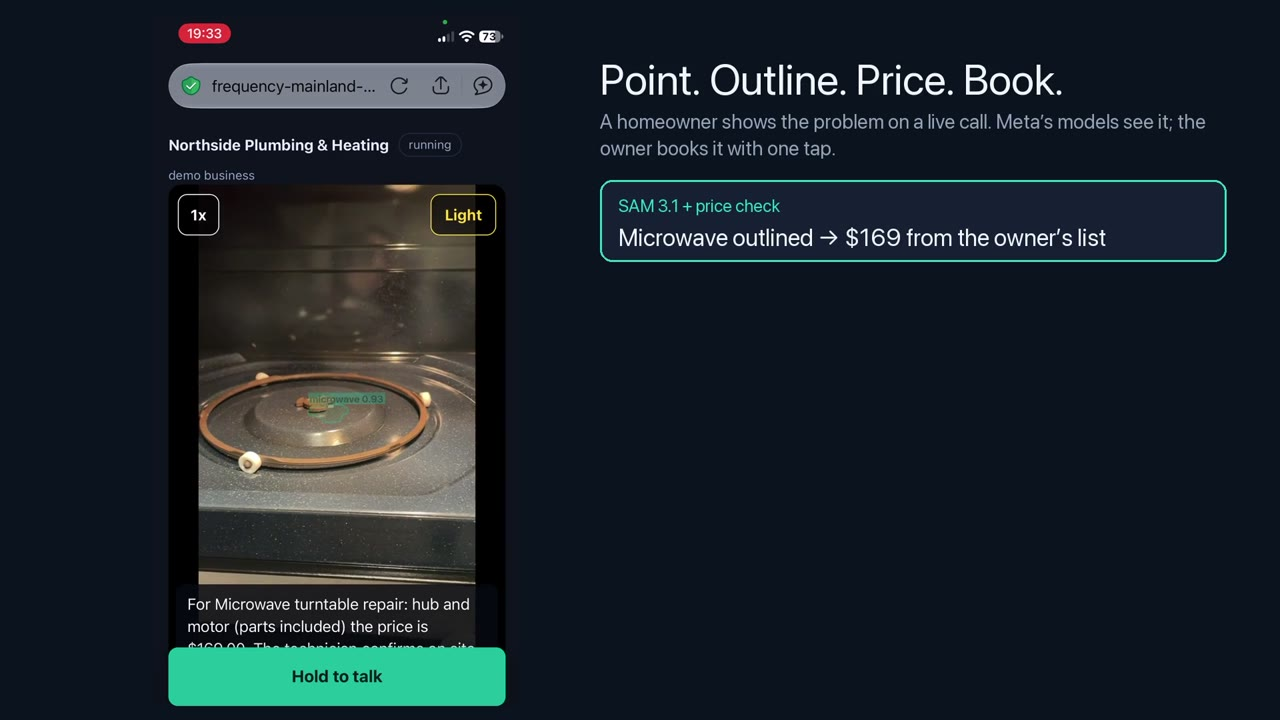
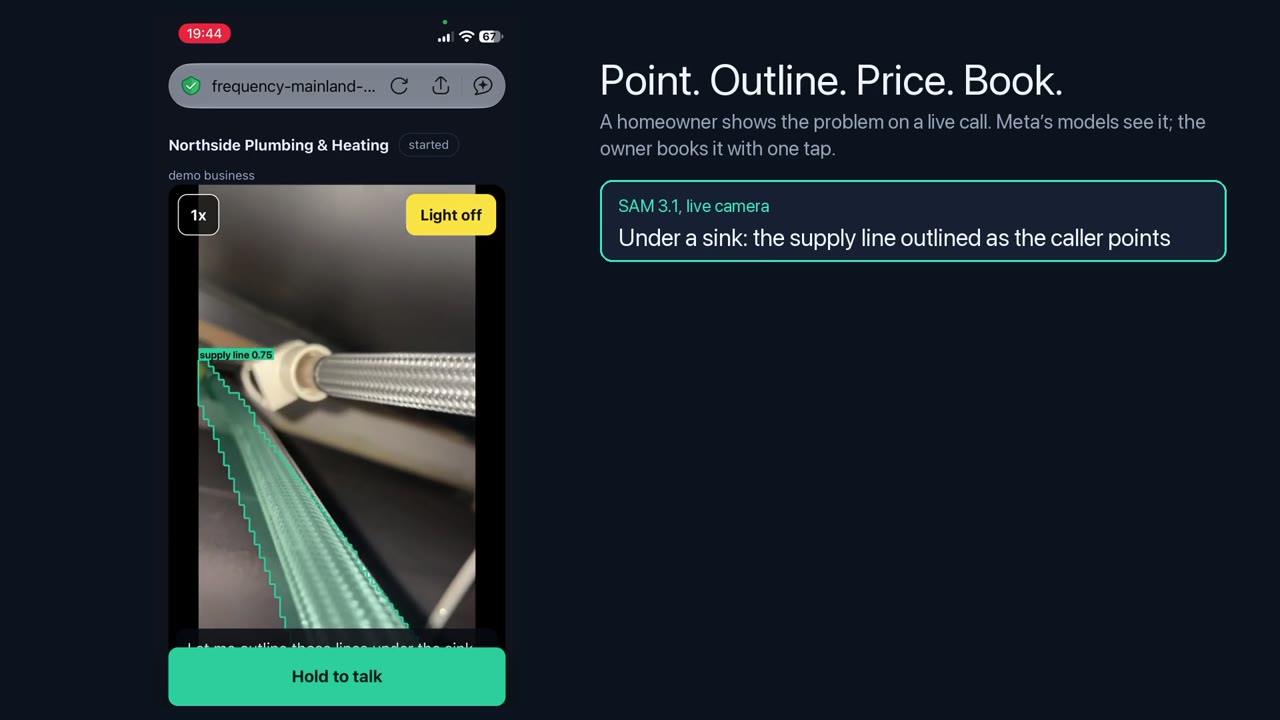
README still from the new opening (bright SAM outline under a sink)

diff --git a/README.md b/README.md
@@ -4,7 +4,7 @@
 
 **Demo video (2:53):** VIDEO_LINK
 
-[![A live call: the microwave hub is outlined by SAM 3.1 and priced from the owner's list](docs/demo.jpg)](VIDEO_LINK)
+[![A live call: SAM 3.1 outlines the supply line under a sink as the caller points](docs/demo.jpg)](VIDEO_LINK)
 
 ## For judges (2 minutes)
 
